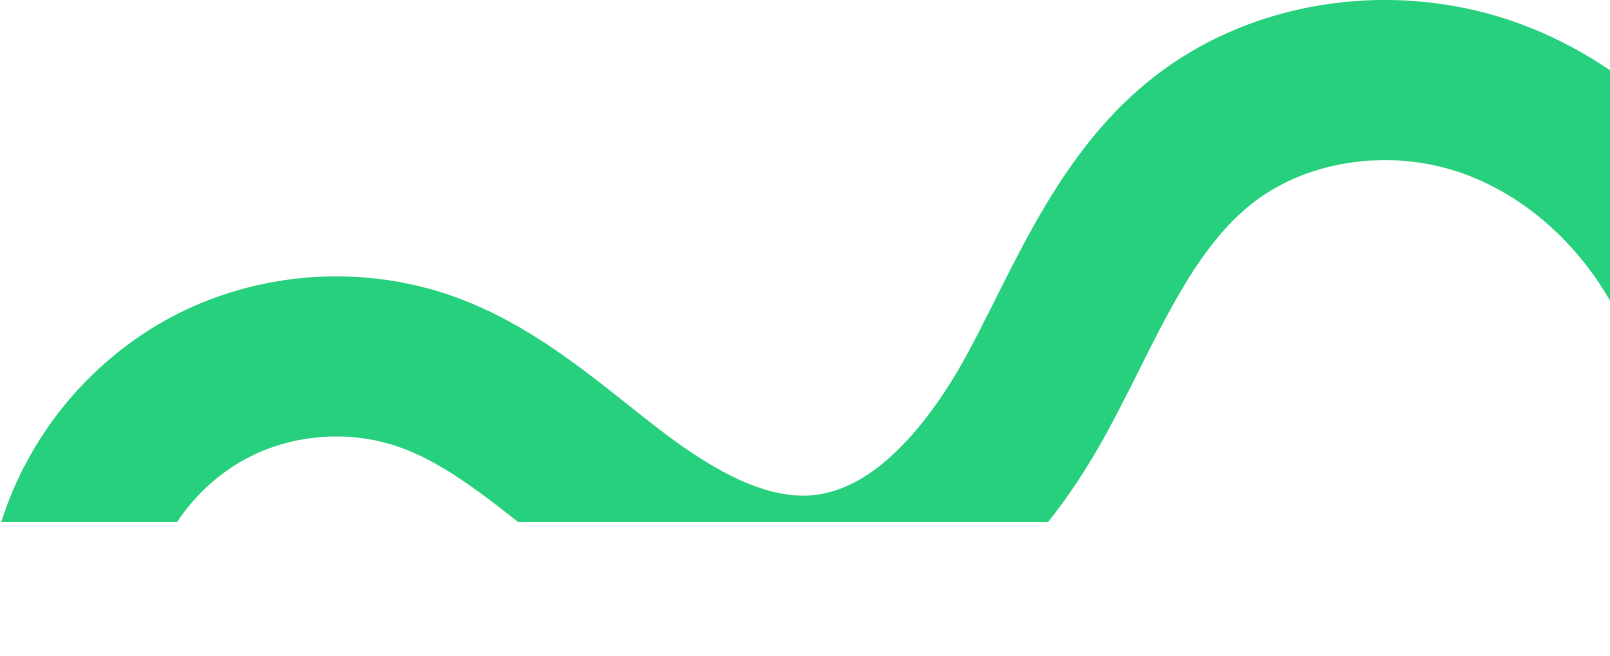
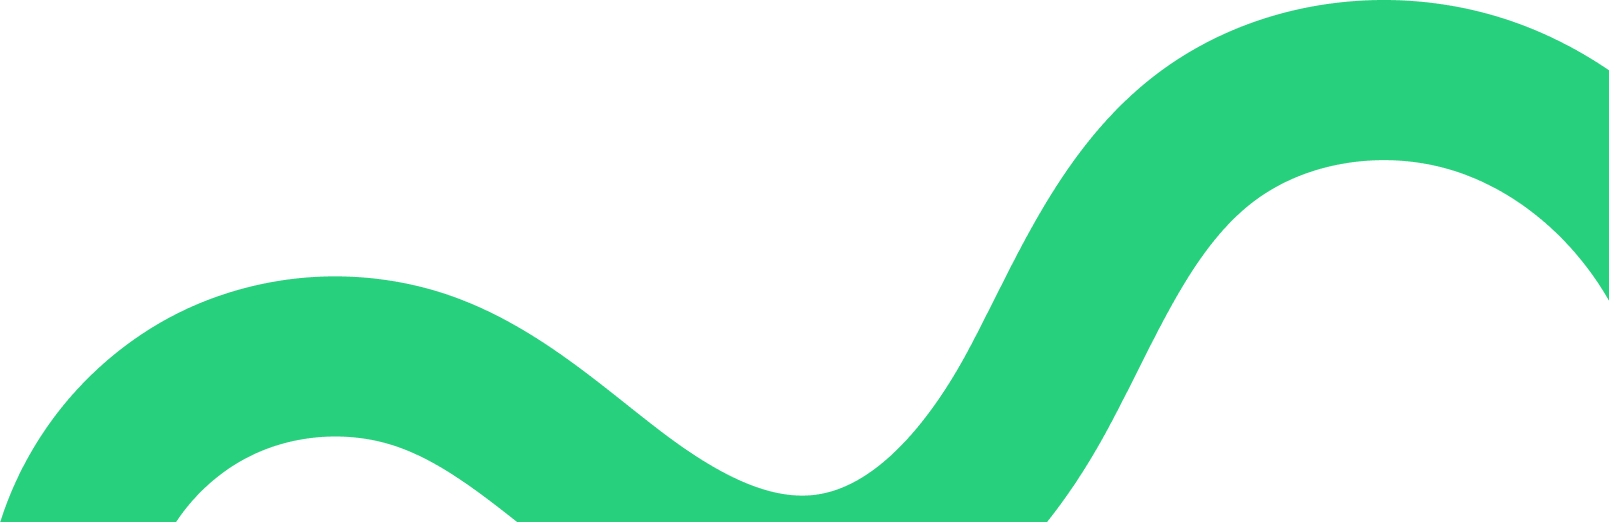
fix(profesional): colocar bien las formas del hero de Open House
Los PNG exportados traian transparencia sobrante (el anillo superior tenia un
35% vacio arriba), que empujaba la forma hacia abajo y la dejaba sobre la cara
del estudiante. Se recortan al contenido y se anclan a los bordes:

- anillo superior: pegado al borde de arriba, como en el Figma
- anillo derecho y onda: anclados a la derecha (right: 0), sin margen

diff --git a/landings/css/profesional/styles.css b/landings/css/profesional/styles.css
@@ -576,10 +576,11 @@ html { scroll-behavior: smooth; }
 .tpl-profesional .oh-shape {
   position: absolute; z-index: 0; height: auto; pointer-events: none; user-select: none;
 }
-.tpl-profesional .oh-shape--ring-top   { left: 43.4%; top: -9%;   width: 20.1%; }
-.tpl-profesional .oh-shape--ring-right { left: 88%;   top: 54.6%; width: 11.5%; }
-/* anclada al borde inferior: asoma como en el Figma y se corta abajo */
-.tpl-profesional .oh-shape--wave       { left: 43.7%; bottom: -14%; width: 56.3%; }
+/* medidas tomadas del Figma sobre la foto de 1440x727:
+   la dona nace pegada al borde superior y las dos de la derecha llegan al borde */
+.tpl-profesional .oh-shape--ring-top   { left: 43.8%; top: 0;       width: 19.4%; }
+.tpl-profesional .oh-shape--ring-right { right: 0;    top: 54.2%;   width: 11.5%; }
+.tpl-profesional .oh-shape--wave       { right: 0;    bottom: 0;    width: 55.3%; }
 
 /* 2. iconos sobre verde oscuro */
 .tpl-profesional .oh-icons { background: #00534c; }
